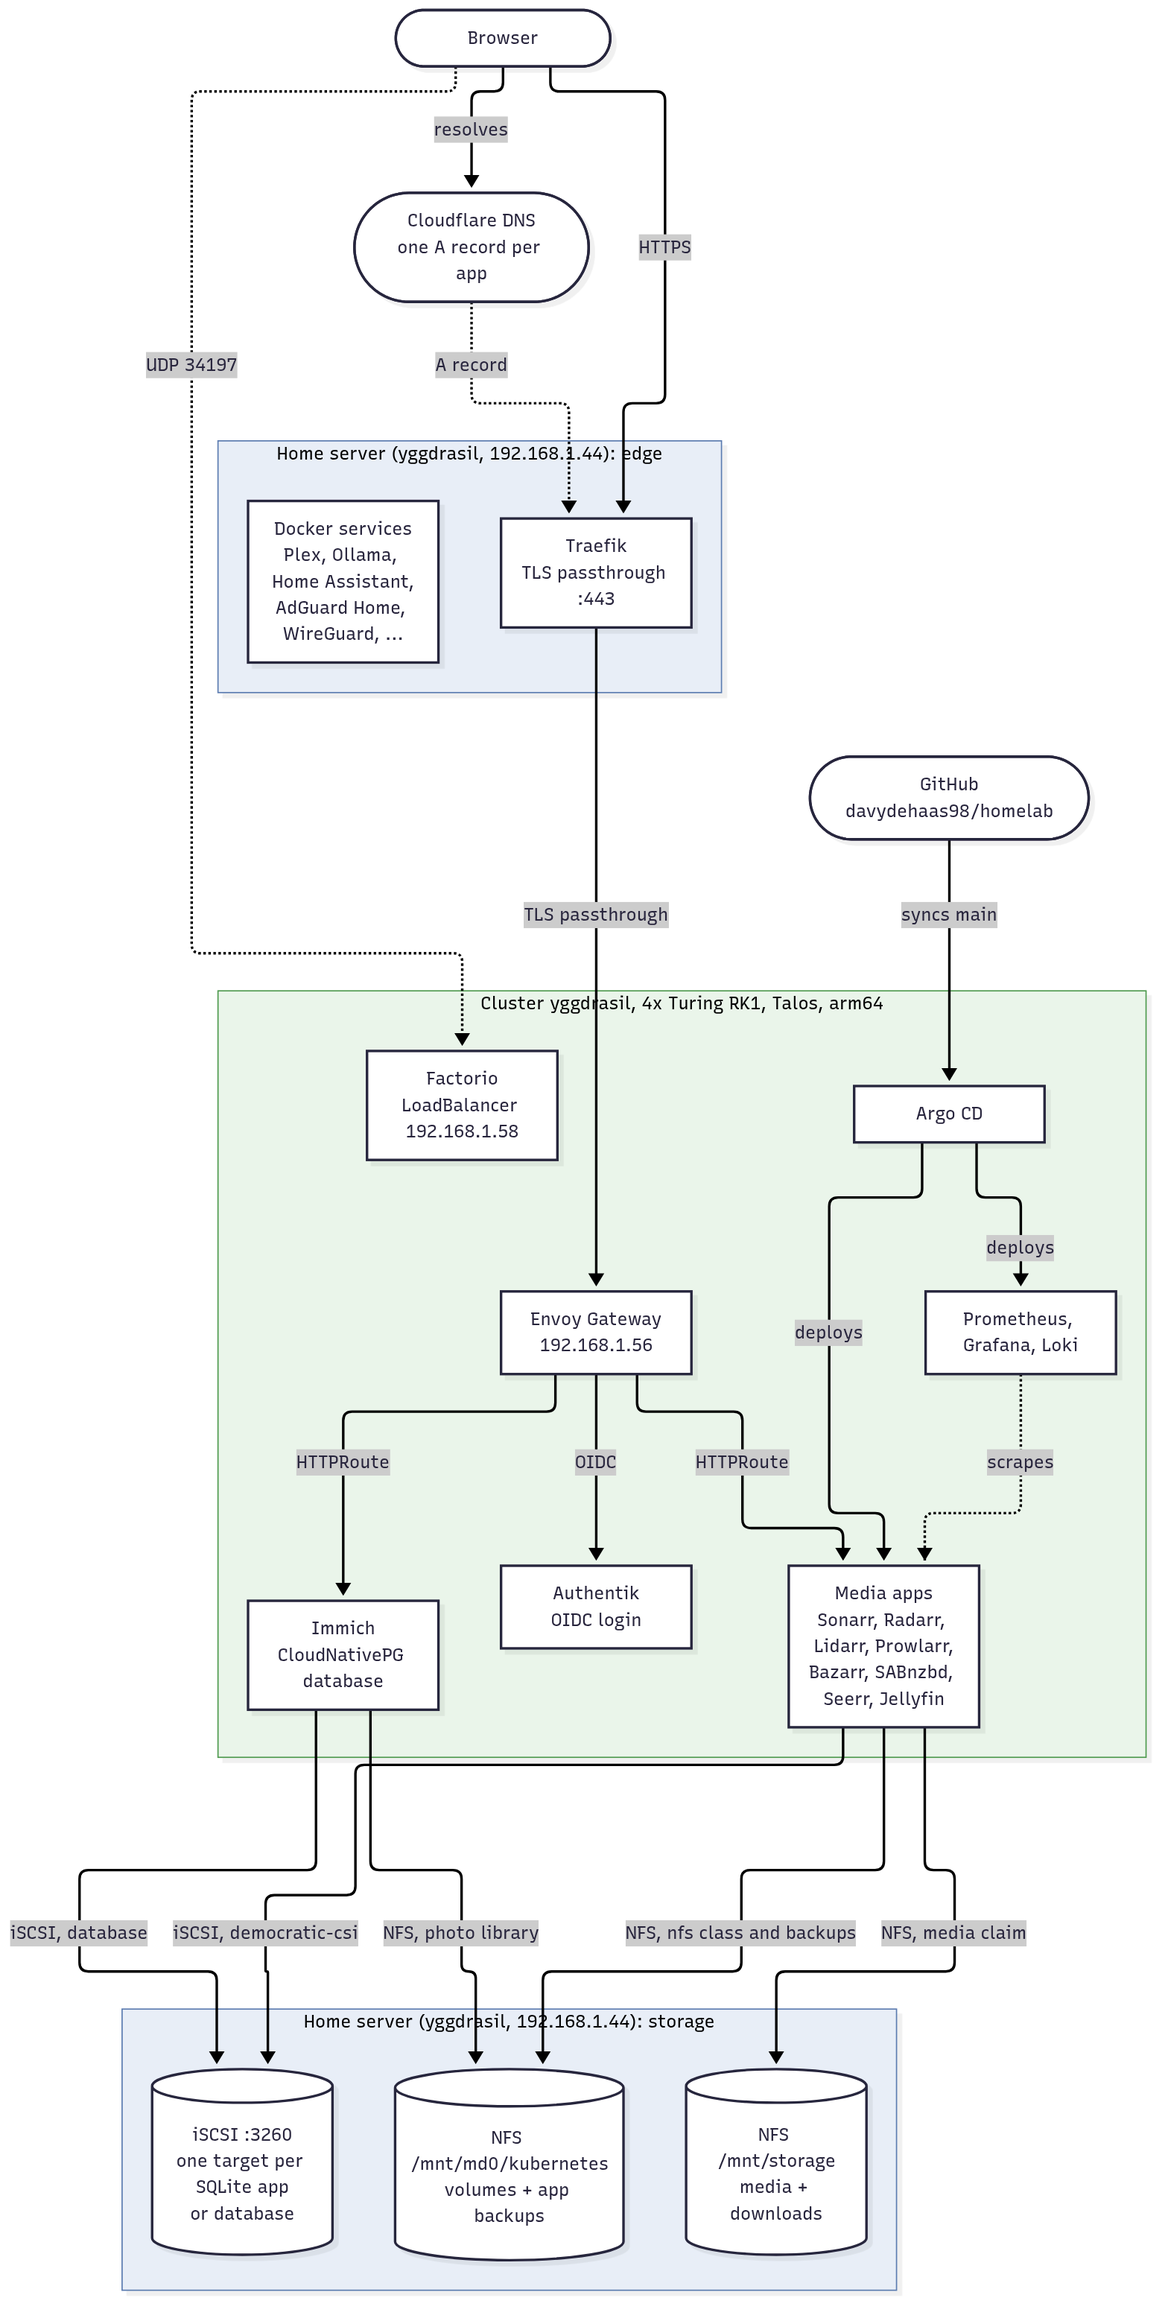
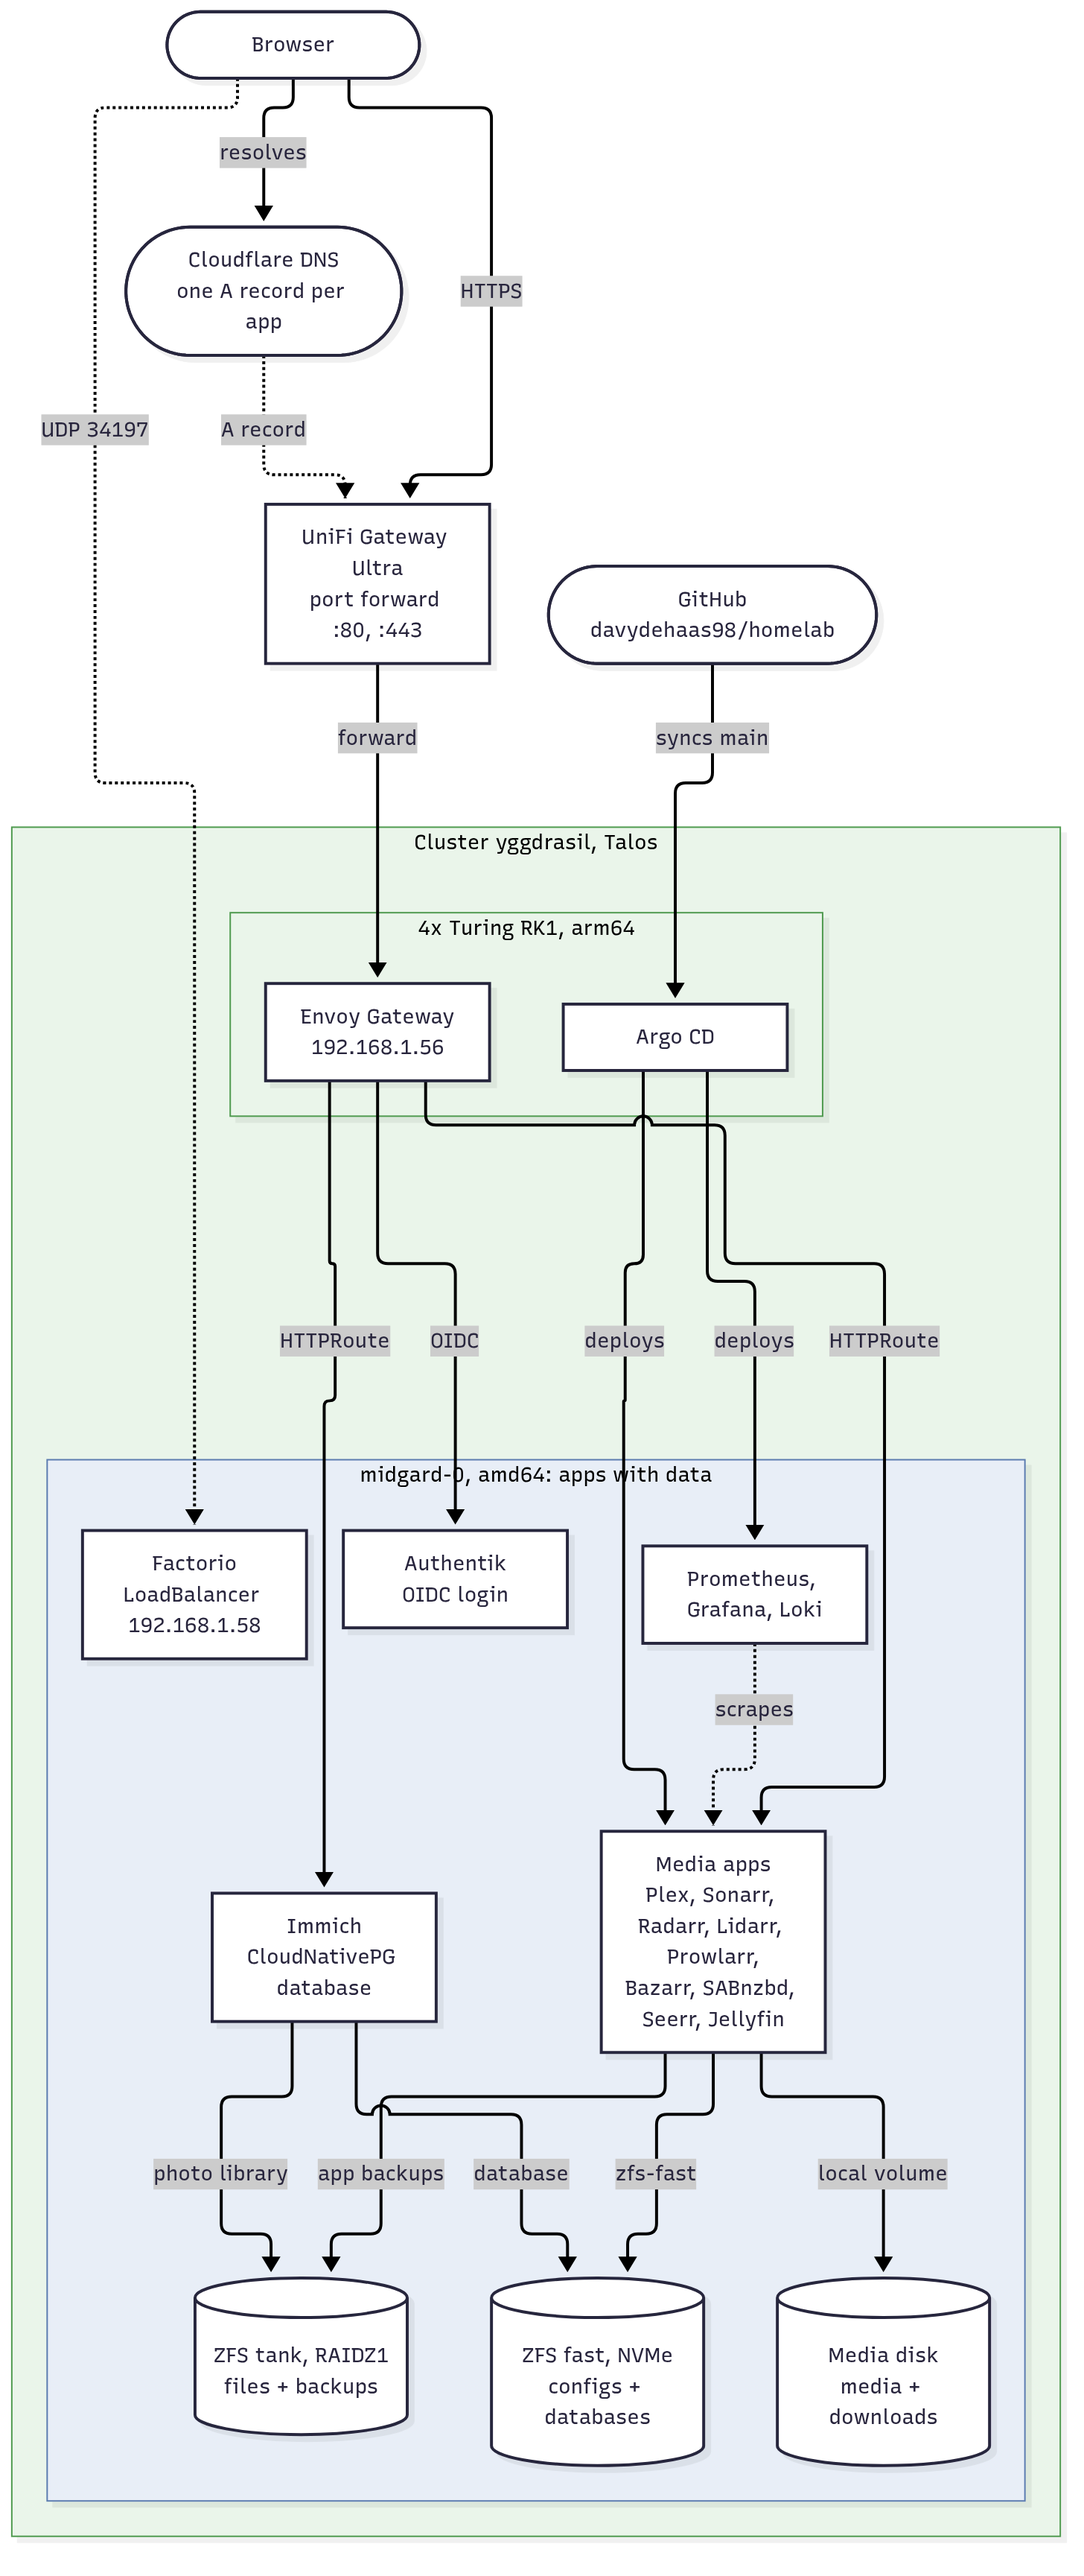
Update docs

diff --git a/README.md b/README.md
@@ -10,7 +10,36 @@ Agent guidance is in [`AGENTS.md`](AGENTS.md).
 - `talos/`: node configs and the bootstrap runbook, see [`talos/README.md`](talos/README.md).
 - `terraform/`: Cloudflare DNS and the arr settings (devopsarr), see [`terraform/README.md`](terraform/README.md).
 - `.devcontainer/`: the CLIs from `mise.toml`, see [`.devcontainer/README.md`](.devcontainer/README.md).
-- `docs/`: Mermaid diagrams ([`docs/diagrams/`](docs/diagrams/README.md)) and manuals of the smart meter and water meter gateways.
+- `docs/`: the diagrams below ([`docs/diagrams/`](docs/diagrams/README.md)) and manuals of the smart meter and water meter
+  gateways.
+
+## Diagrams
+
+### Architecture
+
+![Architecture](docs/diagrams/architecture.png)
+
+### Request and login
+
+![Request and login](docs/diagrams/login-flow.png)
+
+### Deploy
+
+![Deploy](docs/diagrams/deploy-flow.png)
+
+### Backups
+
+![Backups](docs/diagrams/backup-flow.png)
+
+### Media stack
+
+![Media stack](docs/diagrams/media-stack.png)
+
+### Media request
+
+Sonarr handles series and Radarr movies; the flow is the same.
+
+![Media request](docs/diagrams/request-flow.png)
 
 ## Apps
 
@@ -115,6 +144,7 @@ The apps with `deploy: true` in their `argocd.yaml`, as `kubernetes/<group>/<app
 | headlamp     | Kubernetes dashboard |
 | homepage     | Start page           |
 | it-tools     | Developer utilities  |
+| ntfy         | Push notifications   |
 | omni-tools   | Everyday utilities   |
 
 ## Hardware

diff --git a/docs/diagrams/README.md b/docs/diagrams/README.md
@@ -1,27 +1,10 @@
 # Diagrams
 
-Mermaid sources (`*.mmd`) rendered to PNGs with a white background, so they stay readable in dark mode.
-
-## Architecture
-
-![Architecture](architecture.png)
-
-## Media stack
-
-![Media stack](media-stack.png)
-
-## Request flow
-
-Sonarr handles series and Radarr movies; the flow is the same.
-
-![Request flow](request-flow.png)
-
-## Rendering
-
-Run from the repository root after changing a `.mmd` file:
+Mermaid sources (`*.mmd`), rendered to PNGs with a white background so they stay readable in dark mode, and shown in the
+[README](../../README.md#diagrams). After changing a `.mmd` file, render it from the repository root:
 
 ```shell
-for d in architecture media-stack request-flow; do
+for d in architecture backup-flow deploy-flow login-flow media-stack request-flow; do
   podman run --rm -v "$PWD/docs/diagrams:/data" ghcr.io/mermaid-js/mermaid-cli/mermaid-cli \
     -p /data/puppeteer.json -i /data/$d.mmd -o /data/$d.png -b white -s 2
 done
